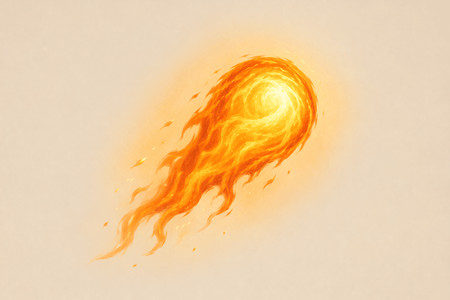
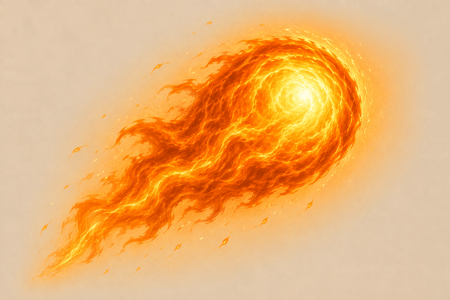
feat: 3.0.0: Illustration passe 2

diff --git a/devNotes/caracterisation.md b/devNotes/caracterisation.md
@@ -78,16 +78,17 @@ Stats absentes notables : **critique** jamais montable pour Moine, Sorcière et 
   de carte à 0 
 
   **Dernière passe pour chaque sort :**
-- Verifier caracterisation des autres classes
-- Equilibrage de la classe manuel puis IA
+- Verifier caractérisation des autres classes
+- Équilibrage de la classe manuel puis IA
 - dégâts
 - couts
 - nb de cartes
 - synergie
-- Vérifier caracterisation abilities dnd
-- Verification cahque fonctionnalité du moteur pour cahque classe
+- Vérifier caractérisation abilities dnd
+- Verification chaque fonctionnalité du moteur pour chaque classes
 - Faire un inventaire des types de dégâts
 - Faire vérifier IA les descriptions
+- Compléter avec des sorts de rang 2 (juste des sorts plus fort exemple trait de feu II) pour les niveaus supérieurs OU les trous
 
 # Élémentaliste
 
